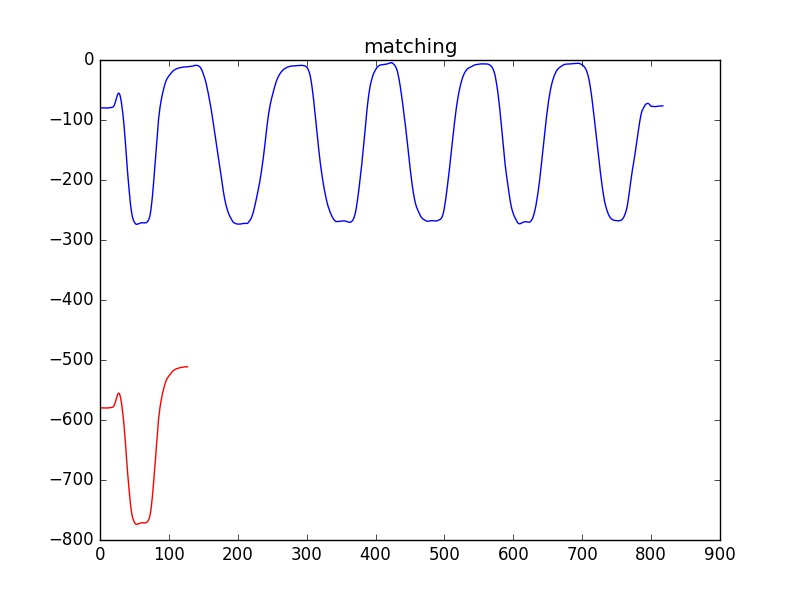
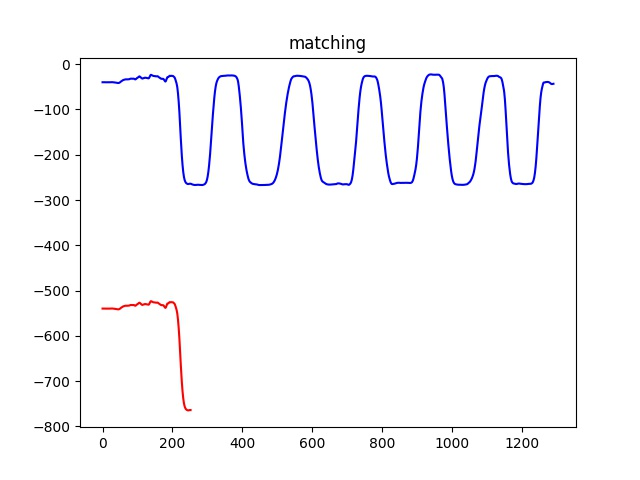
add

diff --git a/DTW/matchingseg2.py b/DTW/matchingseg2.py
@@ -1,0 +1,204 @@
+# -*- coding: utf-8 -*-
+"""
+Created on Mon Sep 11 14:50:20 2017
+
+@author: medialab
+"""
+
+# -*- coding: utf-8 -*-
+"""
+Created on Tue Sep 05 14:48:06 2017
+
+@author: medialab
+"""
+
+import h5py,cPickle,pdb
+import numpy as np
+from scipy.spatial.distance import euclidean
+from fastdtw import fastdtw
+import matplotlib.pyplot as plt
+from scipy.ndimage.filters import gaussian_filter1d as gf
+from scipy.signal import argrelextrema
+
+#src_path  = 'I:/AllData_0327/unified data array/Unified_MData/ex4/'
+src_path  = 'D:/Project/K_project/data/unified data array/Unified_MData/'
+gt_src   = 'GT_V_data.h5'
+
+test_src = src_path + 'Angela_2017-03-06 09.10.02 AM_ex4_FPS30_motion_unified.pkl'
+
+
+data       = h5py.File('GT_V_data_mod_EX4.h5','r')
+gt_data    = {}
+gt_data[1] = data['GT_1'][:]
+gt_data[2] = data['GT_2'][:]
+gt_data[3] = data['GT_3'][:]
+gt_data[4] = data['GT_4'][:]
+
+
+
+test_data    = cPickle.load(file(test_src,'rb'))[12:,:].T
+
+
+distlist            = []
+distplist           = []
+
+seglist             =[]
+gtseglist           =[]
+cnt         = 0
+dcnt        = 0      # decreasing cnt
+test_idx    = 0
+#offset      = test_idx 
+chk_flag    = False
+deflag      = False  # decreasing flag
+err         = []
+dist_prev   = 0
+distp_prev  = 0 
+argmin      = []
+distp_cmp  = np.inf
+
+order = {}
+order[0] = [1]
+order[1] = [3]
+order[2] = 'end'
+order[3] = [4]
+order[4] = [2,3]
+oidx     = 0      # initail
+gt_idx   = 0
+idxlist  = []
+j    = 0
+ccnt = 1
+
+while not ((order[oidx] == 'end') | (j == (test_data.shape[0]-1))):
+    
+        
+#    idxlist.append(gt_idx)    
+    
+    
+    distplist = []
+    dpfirst   = {}
+    dist_p    = {}
+    dcnt        = 0 
+    deflag      = False
+    deflag_mul  = {}
+    minval =np.inf 
+    if (len(order[oidx])>1 ):
+        for ii in order[oidx]:
+            deflag_mul[ii] = False 
+    else:
+       gt_idx = order[oidx][0] 
+       idxlist.append(gt_idx)
+    
+    for jidx,j in  enumerate(range(test_idx,test_data.shape[0])): 
+
+        print j
+#        if j == 782:
+#            pdb.set_trace()
+        if jidx == 0:
+            testlist = test_data[j,:]
+        else:
+            testlist = np.vstack([testlist,test_data[j,:]])
+       
+        
+        
+        if not deflag :
+            if np.mod(j-(test_idx+1),10) == 0:
+                if (len(order[oidx])>1 ) &((j- (test_idx+1)) <=40):
+                    for ii in order[oidx]:
+                        test_p = test_data[:,:] + np.atleast_2d((gt_data[ii][0,:]-test_data[test_idx,:]))
+                        dist_p[ii], _ = fastdtw(gt_data[ii], test_p[test_idx:j,:], dist=euclidean)  
+                        if (j == test_idx+1):
+                            dpfirst[ii] = dist_p[ii]
+                        else: # j > test_idx+1
+                             if (dpfirst[ii] - dist_p[ii])>2000:
+                                 print('deflag on')
+                                 deflag_mul[ii] = True
+                    if (j- (test_idx+1)) >=40:   
+                        for ii in order[oidx]:
+                            if minval>dist_p[ii]:
+                                minval = dist_p[ii] 
+                                minidx = ii
+                        
+                        deflag =  deflag_mul[ii]  
+                        gt_idx =  minidx 
+                        idxlist.append(gt_idx)
+                        distp_prev  = dist_p[gt_idx]
+                        dpfirst = dpfirst[gt_idx]
+                      
+                else:  
+                    test_data_p  = test_data[:,:] + np.atleast_2d((gt_data[gt_idx][0,:]-test_data[test_idx,:]))
+                    dist_p, _ = fastdtw(gt_data[gt_idx], test_data_p[test_idx:j,:], dist=euclidean)
+    
+                    if (j == test_idx+1):
+                        dpfirst = dist_p
+                    else: # j > test_idx+1
+                        if (dpfirst - dist_p)>2000:
+                            print('deflag on')
+                            deflag = True
+                            distp_prev  = dist_p
+
+            
+        else: 
+            dist_p, path_p = fastdtw(gt_data[gt_idx], test_data_p[test_idx:j,:], dist=euclidean)
+            distplist.append(dist_p)
+            if chk_flag:  # in check global min status
+                cnt +=1
+               
+                if dist_p < distp_cmp : # find another small value
+                    cnt = 0
+
+                    distp_cmp = dist_p
+                    idx_cmp   = j
+                    print(' ==== reset ====')
+                    
+                elif cnt == 20:
+
+
+                    chk_flag = False
+
+                    tgrad = 0
+
+                    for ii in range(testlist.shape[1]):
+                        tgrad += np.gradient(gf(testlist[:,ii],3))**2
+                        
+                    tgrad = tgrad**0.5
+
+                    endidx = np.argmin(tgrad[idx_cmp-test_idx-10:idx_cmp-test_idx+10])+(idx_cmp-10) 
+                    seglist.append([test_idx,endidx])                       
+                    test_idx = endidx+1
+                    cnt      = 0
+                    oidx = gt_idx
+                    
+                    break
+                
+            else:  
+                print dist_p-distp_prev
+                
+                if (dist_p-distp_prev)>0:
+                    print (' ==============  large ====================')
+
+                    distp_cmp = distp_prev
+                    idx_cmp   = j
+                    chk_flag = True
+                    err      = []
+
+            distp_prev  = dist_p 
+        
+            print ('===========\n')
+     
+  
+    if cnt > 0:
+       seglist.append([test_idx,idx_cmp]) 
+       endidx =  idx_cmp
+    elif j == (test_data.shape[0]-1):
+        seglist.append([test_idx,test_data.shape[0]-1]) 
+        endidx = test_data.shape[0]-1
+
+    
+        
+    fig = plt.figure(1)
+    plt.plot(test_data[:endidx,6]-500,color = 'red')
+    plt.plot(test_data[:,6],color = 'blue')
+    plt.title('matching')
+
+    fig.savefig(str(len(seglist)).zfill(2)+'.jpg')
+    plt.close(fig)

diff --git a/animation_opt_data_unified.py b/animation_opt_data_unified.py
@@ -44,11 +44,11 @@ from mpl_toolkits.mplot3d import Axes3D
 #
 #
 #
-kdata_all  = cPickle.load(file('F:/AllData_0327/Motion and Kinect raw data/3D_kinect_joint/ex4/Andy_data201612151615_raw3D_ex4.pkl'))
+#kdata_all  = cPickle.load(file('F:/AllData_0327/Motion and Kinect raw data/3D_kinect_joint/ex4/Andy_data201612151615_raw3D_ex4.pkl'))
 
 
-
-mdata_all  = cPickle.load(file('F:/AllData_0327/Motion and Kinect raw data/Not_unified_Mdata/ex4/Andy_2016-12-15 04.15.27 PM_ex4_FPS30_motion.pkl'))
+src_path  = 'D:/Project/K_project/data/unified data array/Unified_MData/'
+mdata_all  = cPickle.load(file(src_path+'Andy_2017-03-06 02.17.39 PM_ex4_FPS30_motion_unified.pkl'))
 
 
 
@@ -74,7 +74,7 @@ ax = fig.add_subplot(111, projection='3d')
 
 
     
-for frame_no in xrange(100,101):#min(kNUM_FRAMES,NUM_FRAMES)):
+for frame_no in xrange(700,775):#min(kNUM_FRAMES,NUM_FRAMES)):
     plt.cla()
     
 
@@ -86,9 +86,9 @@ for frame_no in xrange(100,101):#min(kNUM_FRAMES,NUM_FRAMES)):
 #        ax.scatter(rz, rx, ry,c = 'red',s =100,alpha=.8,label='err')
         
         
-    kxs = kdata_all[0::3,frame_no]
-    kys = kdata_all[1::3,frame_no]
-    kzs = kdata_all[2::3,frame_no] 
+#    kxs = kdata_all[0::3,frame_no]
+#    kys = kdata_all[1::3,frame_no]
+#    kzs = kdata_all[2::3,frame_no] 
     
     mxs = mdata_all[0::3,frame_no]
     mys = mdata_all[1::3,frame_no]
@@ -122,13 +122,13 @@ for frame_no in xrange(100,101):#min(kNUM_FRAMES,NUM_FRAMES)):
 #        
 
 
-    ax.scatter(kzs, kxs, kys, c = 'red', s = 30,label='K')    
+#    ax.scatter(kzs, kxs, kys, c = 'red', s = 30,label='K')    
     ax.scatter(mzs, mxs, mys,c = 'green',s = 30,alpha=.4,label='M')
 #    ax.scatter(mpzs, mpxs, mpys,c = 'blue',s =50,alpha=.4,label='modified M Joints')
 #    ax.scatter(mpzs[4:7], mpxs[4:7], mpys[4:7],c = 'red',s =50,alpha=.4,label='modified M Joints')
-#    ax.set_xlim(-300,300)
-#    ax.set_ylim(-200,400)
-#    ax.set_zlim(50,600)
+    ax.set_xlim(-300,300)
+    ax.set_ylim(-200,400)
+    ax.set_zlim(50,600)
 
 #    ax.set_ylim(-0.5,0.5)
 #    ax.set_zlim(-0.5,0.5)

diff --git a/DTW/test2.py b/DTW/test2.py
@@ -13,8 +13,8 @@ import matplotlib.pyplot as plt
 from scipy.ndimage.filters import gaussian_filter1d as gf
 
 
-src_path  = 'I:/AllData_0327/unified data array/Unified_MData/ex4/'
-#src_path  = 'D:/Project/K_project/data/unified data array/Unified_MData/'
+#src_path  = 'I:/AllData_0327/unified data array/Unified_MData/ex4/'
+src_path  = 'D:/Project/K_project/data/unified data array/Unified_MData/'
 gt_src   = 'GT_V_data.h5'
 
 test_src = src_path + 'Andy_2017-03-06 02.17.39 PM_ex4_FPS30_motion_unified.pkl'
@@ -93,7 +93,8 @@ for i in range(test_data.shape[0]):
                     minval = np.inf
                     for j in oidx:
                         moddata = inputdata[test_idx:endidx,:] + np.atleast_2d((gt_data[j][0,:]-test_data[test_idx,:]))
-                        dist, _ = fastdtw(gt_data[j], moddata, dist=euclidean)
+                        dist, path = fastdtw(gt_data[j], moddata, dist=euclidean)
+                        print dist/len(path)
                         if minval>dist:    
                            minval = dist
                            minidx = j
@@ -163,3 +164,26 @@ if tgrad[-1] < 0.5:
     
 plt.plot(Tmp)
 plt.show()
+
+
+
+#    tgrad = {}
+#    for ii in range(0,test_data.shape[1],3):
+#        tgrad[ii] = np.gradient(gf(test_data[:,ii],3))**2
+#        tgrad[ii] +=np.gradient(gf(test_data[:,ii+1],3))**2
+#        tgrad[ii] +=np.gradient(gf(test_data[:,ii+2],3))**2
+#        tgrad[ii] = tgrad[ii]**0.5
+#    for i in tgrad.keys():
+#        print i
+#        plt.figure(i/3)
+#        plt.plot(range(600,650),tgrad[i][600:650])
+#        
+#    plt.show()
+
+
+
+
+
+
+
+

diff --git a/DTW/matchingseg.py b/DTW/matchingseg.py
@@ -79,6 +79,7 @@ while not ((order[oidx] == 'end') | (j == (test_data.shape[0]-1))):
 #               minval = np.mean(d_p) 
 #               minidx = ii
 #        gt_idx = minidx  
+
         test_p2 = test_data[:,:] + np.atleast_2d((gt_data[2][0,:]-test_data[test_idx,:]))
         test_p3 = test_data[:,:] + np.atleast_2d((gt_data[3][0,:]-test_data[test_idx,:]))
         dist_p2, _ = fastdtw(gt_data[2], test_p2[test_idx:test_idx+40,:], dist=euclidean)
